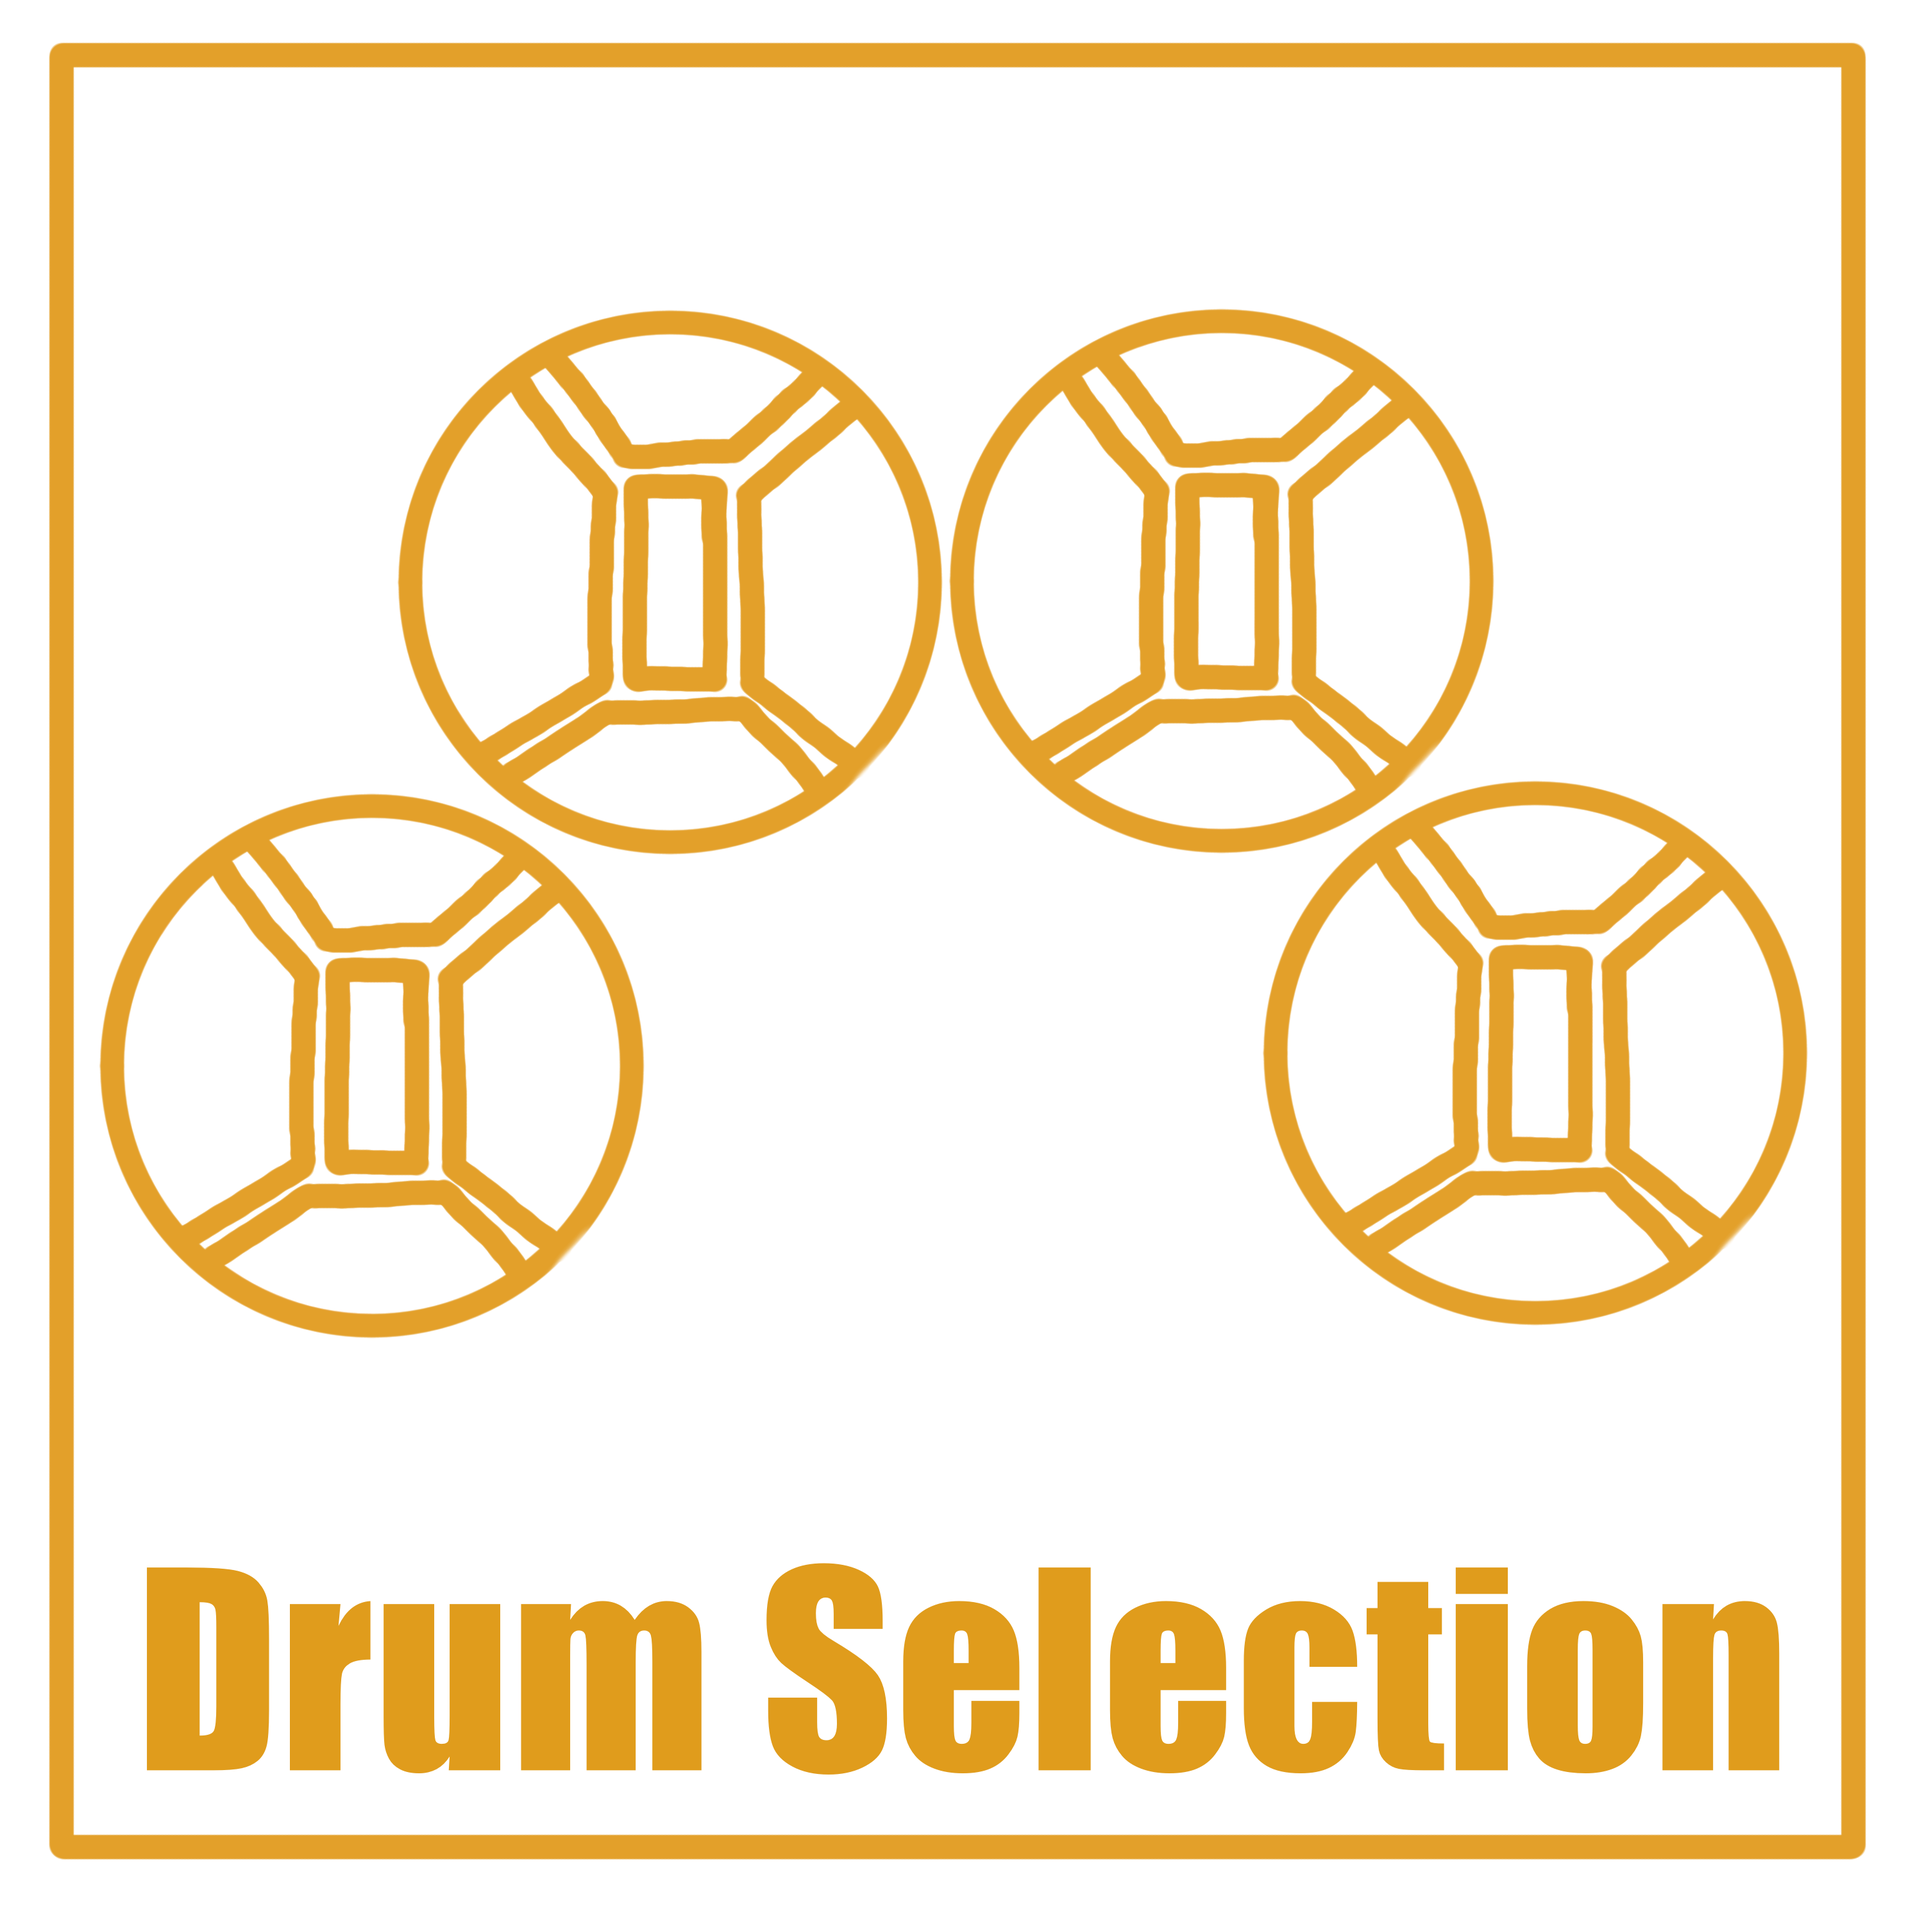
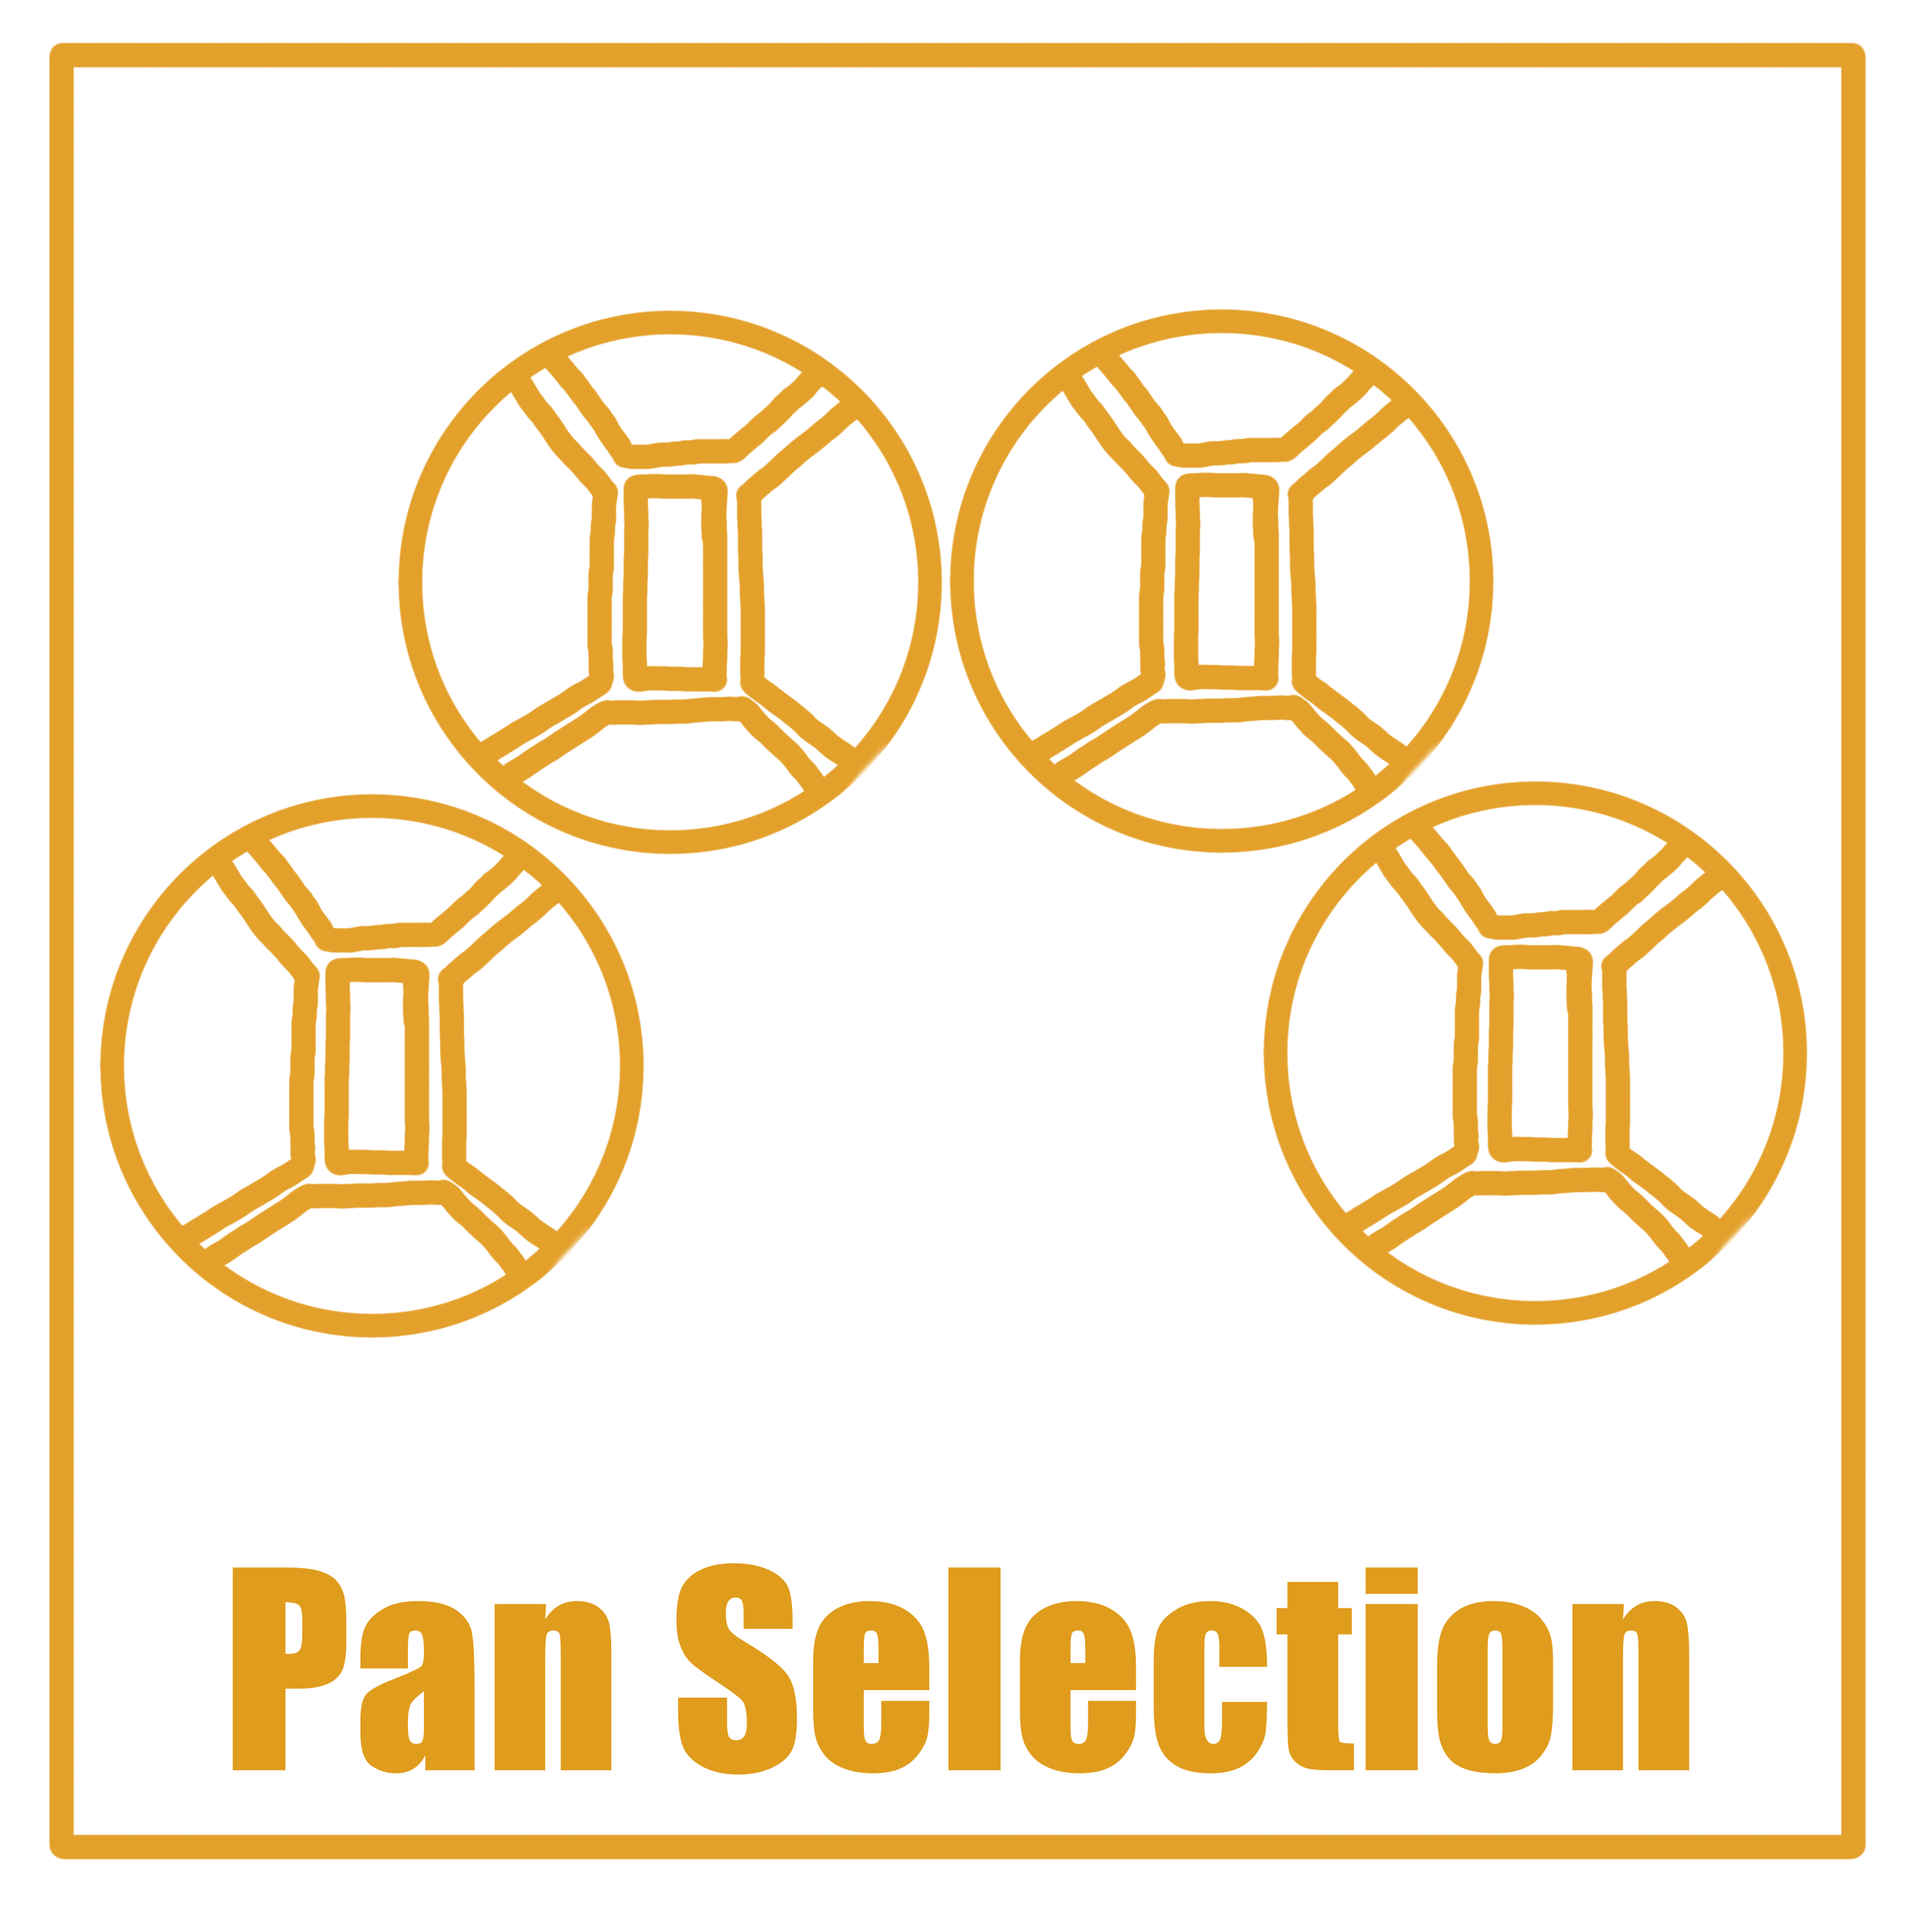
changed buttons

Changed region(s): [[0.062, 0.806, 0.93, 0.93]]

diff --git a/website/templates/help.html b/website/templates/help.html
@@ -1,14 +1,32 @@
 {% extends "user.html" %} {% block title %}Help{% endblock %} {% block content
     %}
     <h1 align="center" style="line-height: 100px;">Info</h1>
-    <body>
-        {# BUTTONS #}
-        <a href = "/menu">
-          <button class="button button1"><i class="fa-solid fa-arrow-left"></i> Menu</button>
-        </a>
+<!--    <body>-->
+<!--        {# BUTTONS #}-->
+<!--        <a href = "/menu">-->
+<!--          <button class="button button1">Menu</button>-->
+<!--        </a>-->
 
-        <a href = "/settings">
-            <button class="button button3"><img src="/static/Design/settings-icon.png" alt="Settings" width="55"></button>
-        </a>
-    </body>
+<!--        <a href = "/settings">-->
+<!--            <button class="button button3"><img src="/static/Design/settings-icon.png" alt="Settings" width="55"></button>-->
+<!--        </a>-->
+<!--    </body>-->
+<!--    <div id="content" style="width: 100%; height: 100%">-->
+<!--        <svg xmlns="http://www.w3.org/2000/svg" version="1.1"-->
+<!--        viewBox="0 0 1000 1000"-->
+<!--        preserveAspectRatio="xMidYMid meet">-->
+<!--            <ellipse cx="505" cy="245" rx="210" ry="210" class="drum" />-->
+<!--            <ellipse cx="222" cy="581" rx="210" ry="210" class="drum" />-->
+<!--            <ellipse cx="790" cy="581" rx="210" ry="210" class="drum" />-->
+
+<!--            **<a href='#' id="Ab1" onclick="playNote(Ab4);">**-->
+<!--                <ellipse cx="154" cy="586" rx="20" ry="36" stroke="black" stroke-width="3" fill="white" fill-opacity="50%"-->
+<!--                fill="grey" transform="rotate(-14, 154, 586)"/>-->
+<!--                <text style="font-size:26px" x="142" y="595" class="notes">A<tspan dy="-4" font-size=".8em">&#x266d</tspan></text>-->
+<!--            **</a>**-->
+<!--            **<a href='/settings'>**-->
+<!--                **<image  href="static/Design/settings-icon.png" width="80px" x="900px"></image>-->
+<!--            **</a>**-->
+<!--        </svg>-->
+<!--    </div>-->
     {% endblock %}

diff --git a/website/templates/drum-select.html b/website/templates/drum-select.html
@@ -1,20 +1,20 @@
 {% extends "user.html" %} {% block title %}Select a Drum{% endblock %} {% block content
     %}
-    <h1 align="center" style="line-height: 70px;">Select a Drum</h1>
-    <body>
-        {# BUTTONS #}
-        <a href = "/menu">
-          <button class="button button1"><i class="fa-solid fa-arrow-left"></i> Menu</button>
-        </a>
+    <h1 align="center" style="line-height: 70px;">Select a Pan</h1>
+<!--    <body>-->
+<!--        {# BUTTONS #}-->
+<!--        <a href = "/menu">-->
+<!--          <button class="button button1">Menu</button>-->
+<!--        </a>-->
 
-        <a href = "/settings">
-            <button class="button button3"><img src="/static/Design/settings-icon.png" alt="Settings" width="55"></button>
-        </a>
+<!--        <a href = "/settings">-->
+<!--            <button class="button button3"><img src="/static/Design/settings-icon.png" alt="Settings" width="55"></button>-->
+<!--        </a>-->
 
-        <a href = "/help">
-            <button class="button button4"><img src="/static/Design/help-icon.png" alt="Help" width="55"></button>
-        </a>
-    </body>
+<!--        <a href = "/help">-->
+<!--            <button class="button button4"><img src="/static/Design/help-icon.png" alt="Help" width="55"></button>-->
+<!--        </a>-->
+<!--    </body>-->
     <div class="container-fluid">
         <div class="row" style="row-gap:20px">
             <div class="col-lg-4 col-md-6 col-sm-6 col-xs-6" style="background-color:black;">

diff --git a/website/templates/drum.html b/website/templates/drum.html
@@ -47,12 +47,14 @@
     {
       left: 0;
       top: 0;
+      padding: 2px;
     }
 
     .button2
     {
       left: 0;
       top: 70px;
+      padding: 2px;
     }
 
 
@@ -144,22 +146,19 @@
 
 
     <a href = "/menu">
-      <button class="button button1"><i class="fa-solid fa-arrow-left"></i> Menu</button>
+      <button class="button button1"><img src="/static/Design/menu-icon.png" alt="Settings" width="55"></button>
     </a>
 
     <a href = "/drum-select">
-{#      <button class="button button1"><i class="fa-regular fa-drum-steelpan"></i> Select Drum</button>#}
-      <button class="button button2"><i class="fa-solid fa-arrow-left"></i> Select Drum</button>
+      <button class="button button2"><img src="/static/Design/select-pan-icon.png" alt="Settings" width="55"></button>
     </a>
 
     <a href = "/settings">
-{#      <button class="button button4"><i class="fa-regular fa-gear"></i> Settings</button>#}
         <button class="button button3"><img src="/static/Design/settings-icon.png" alt="Settings" width="55"></button>
 
     </a>
 
     <a href = "/help">
-{#      <button class="button button5"><i class="fa-regular fa-circle-question"></i> Info</button>#}
         <button class="button button4"><img src="/static/Design/help-icon.png" alt="Help" width="55"></button>
     </a>
 

diff --git a/website/templates/music-library.html b/website/templates/music-library.html
@@ -4,17 +4,17 @@
       <h1 align="center" style="line-height: 100px;">Music Library</h1>
       <body>
         {# BUTTONS #}
-        <a href = "/menu">
-          <button class="button button1"><i class="fa-solid fa-arrow-left"></i> Menu</button>
-        </a>
+<!--        <a href = "/menu">-->
+<!--          <button class="button button1">Menu</button>-->
+<!--        </a>-->
 
-        <a href = "/settings">
-            <button class="button button3"><img src="/static/Design/settings-icon.png" alt="Settings" width="55"></button>
-        </a>
+<!--        <a href = "/settings">-->
+<!--            <button class="button button3"><img src="/static/Design/settings-icon.png" alt="Settings" width="55"></button>-->
+<!--        </a>-->
 
-        <a href = "/help">
-            <button class="button button4"><img src="/static/Design/help-icon.png" alt="Help" width="55"></button>
-        </a>
+<!--        <a href = "/help">-->
+<!--            <button class="button button4"><img src="/static/Design/help-icon.png" alt="Help" width="55"></button>-->
+<!--        </a>-->
       </body>
       <table>
         <tr>

diff --git a/website/templates/settings.html b/website/templates/settings.html
@@ -1,16 +1,16 @@
 {% extends "user.html" %} {% block title %}Settings{% endblock %} {% block content
     %}
-    <body>
-            {# BUTTONS #}
-        <a href = "/menu">
-          <button class="button button1"><i class="fa-solid fa-arrow-left"></i> Menu</button>
-        </a>
+<!--    <body>-->
+<!--            {# BUTTONS #}-->
+<!--        <a href = "/menu">-->
+<!--          <button class="button button1">Menu</button>-->
+<!--        </a>-->
 
 
-        <a href = "/help">
-            <button class="button button3"><img src="/static/Design/help-icon.png" alt="Help" width="55"></button>
-        </a>
-    </body>
+<!--        <a href = "/help">-->
+<!--            <button class="button button3"><img src="/static/Design/help-icon.png" alt="Help" width="55"></button>-->
+<!--        </a>-->
+<!--    </body>-->
     <form method="POST" align="center">
         <h1 align="center" style="line-height: 70px;">Settings</h1>
     

diff --git a/website/templates/user.html b/website/templates/user.html
@@ -143,7 +143,7 @@
         <div class="navbar-nav">
           {% if user.is_authenticated %}
           <a class="nav-item nav-link" id="menu" href="/menu">Menu</a>
-          <a class="nav-item nav-link dropdown" id="menu" href="/drum-select">Drum Selection</a>
+          <a class="nav-item nav-link dropdown" id="menu" href="/drum-select">Pan Selection</a>
           <a class="nav-item nav-link" id="menu" href="/music-library">Music Library</a>
           <a class="nav-item nav-link" id="menu" href="/settings">Settings</a>
           <a class="nav-item nav-link" id="menu" href="/help">Help</a>
